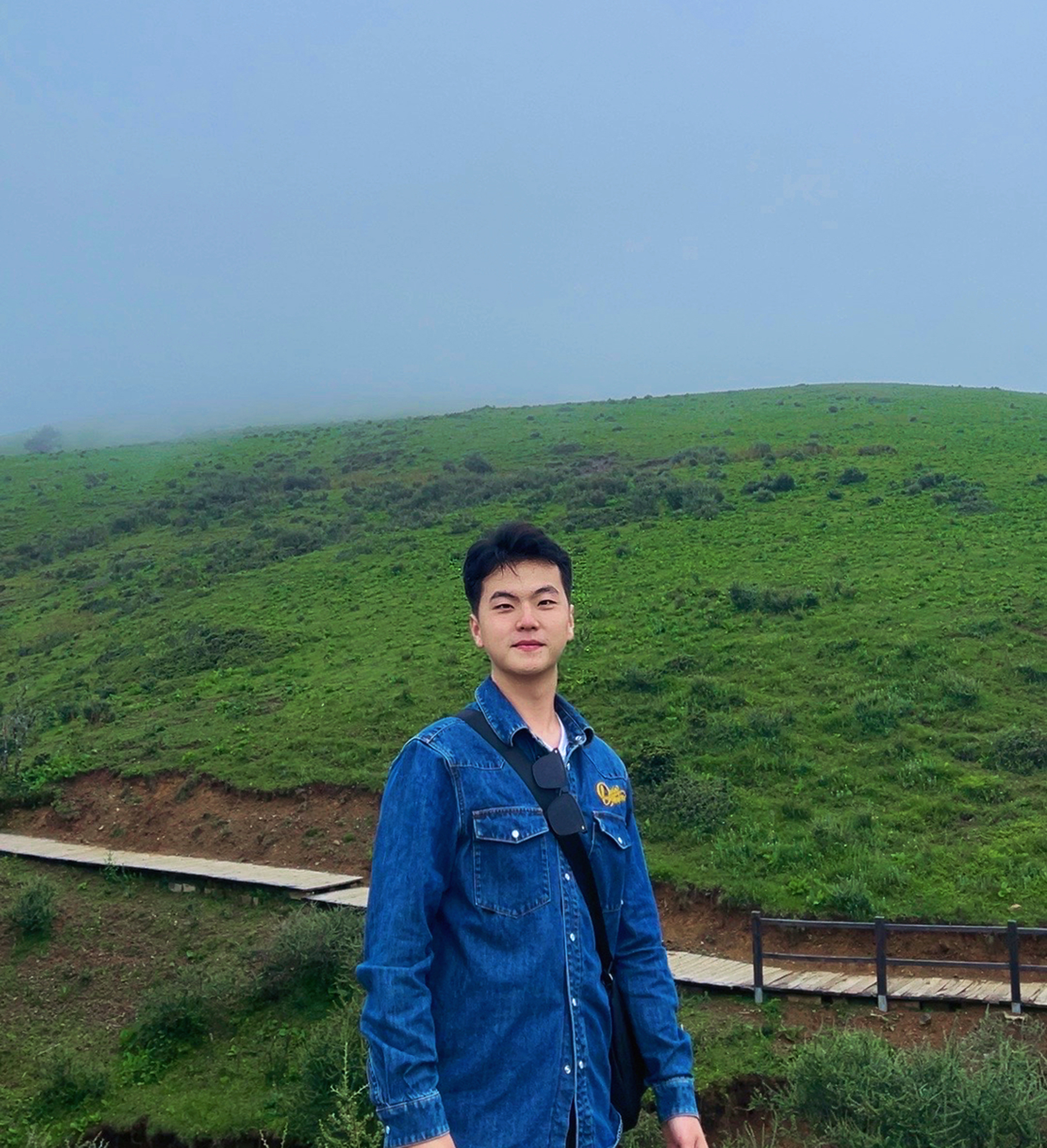
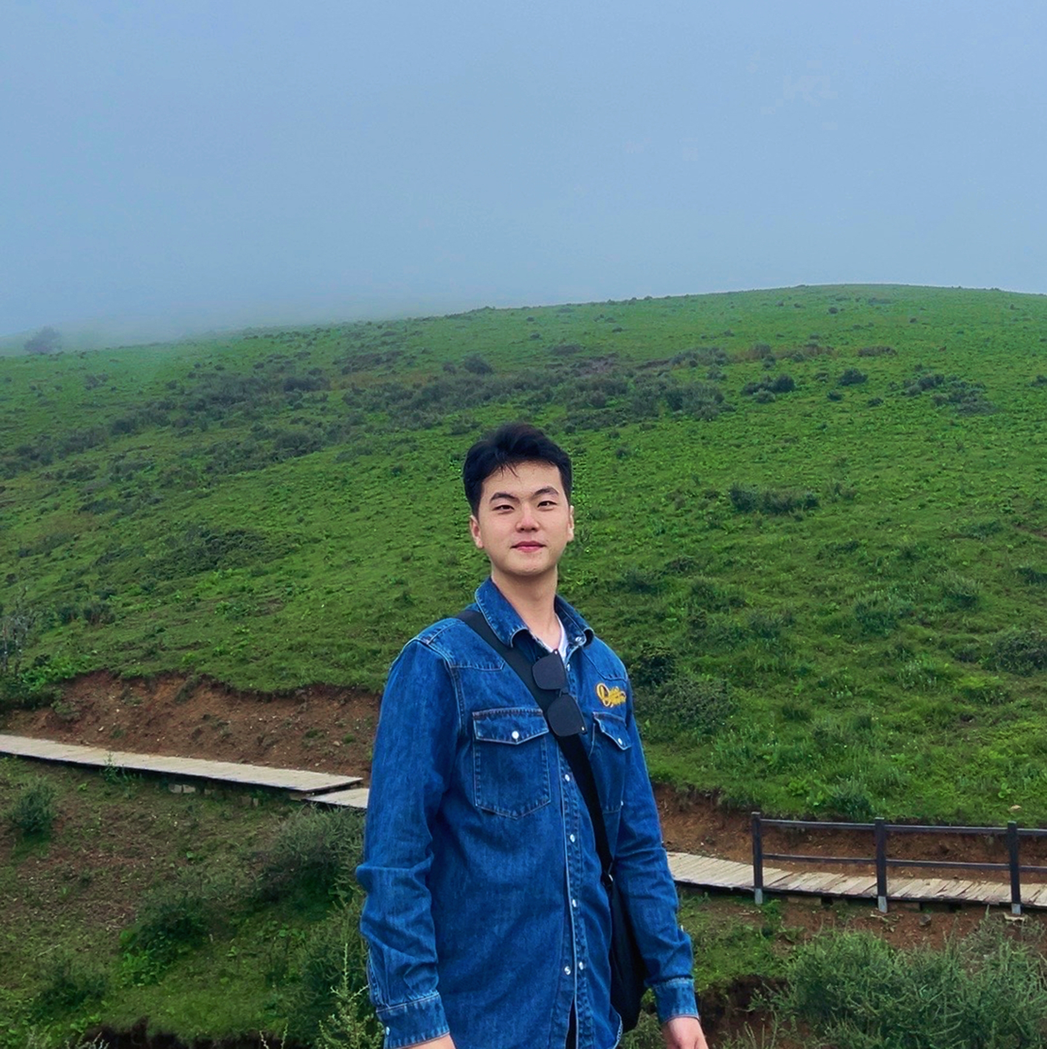
Repair broken links

diff --git a/_news/20250809_news.md b/_news/20250809_news.md
@@ -5,4 +5,4 @@ inline: true
 related_posts: false
 ---
 
-🎉🎉 One mapless navigation paper has accepted by IEEE [T-MECH](https://ieeexplore.ieee.org/abstract/document/11130611) Journey.
+🎉🎉 One mapless navigation paper has accepted by IEEE <a href="https://ieeexplore.ieee.org/abstract/document/11130611">T-MECH</a> Journey.

diff --git a/_news/20250207_news.md b/_news/20250207_news.md
@@ -5,4 +5,4 @@ inline: true
 related_posts: false
 ---
 
-🎉🎉 One collaborative paper has released in [IEEE TCDS](https://ieeexplore.ieee.org/document/10855357)
+🎉🎉 One collaborative paper has released in <a href="https://ieeexplore.ieee.org/document/10855357">IEEE TCDS</a>.

diff --git a/_news/20250710_news.md b/_news/20250710_news.md
@@ -5,4 +5,4 @@ inline: true
 related_posts: false
 ---
 
-🎉🎉 Two collaborative paper has accepted by [IROS 2025](https://www.iros25.org/)
+🎉🎉 Two collaborative paper has accepted by [IROS 2025](https://www.iros25.org/).
